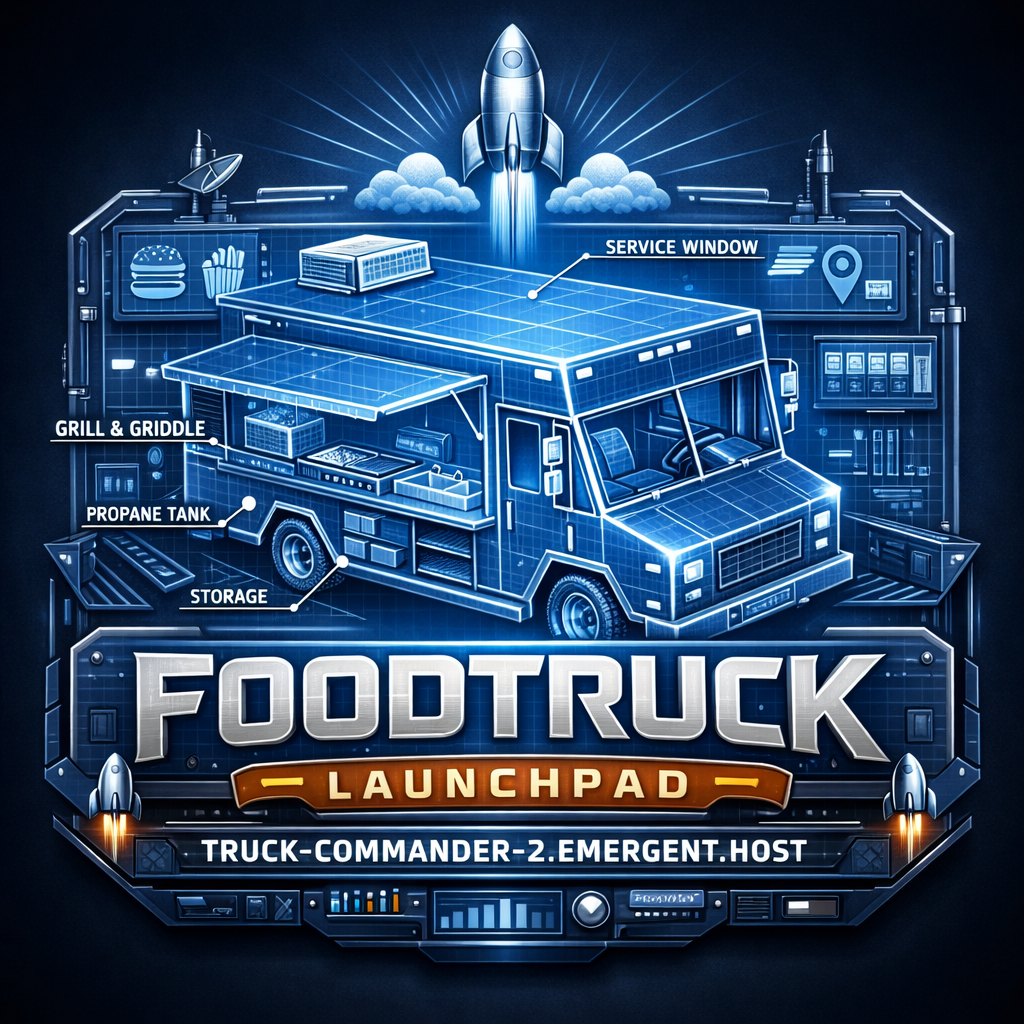
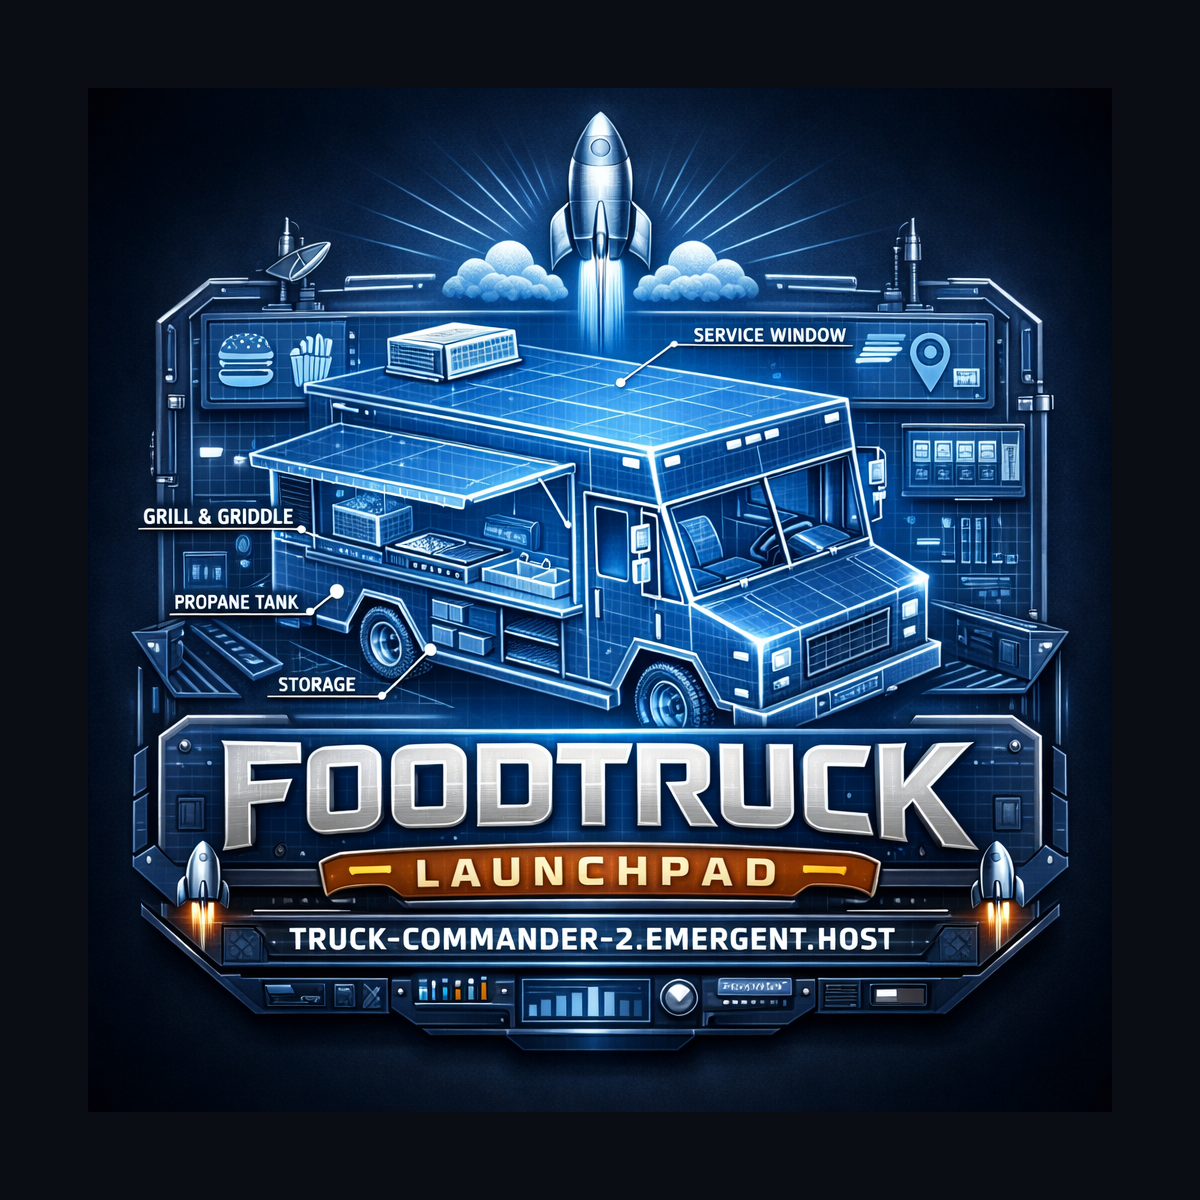
auto-commit for 87b79618-2ab8-4d25-8a4d-09f0a36f0be2

diff --git a/frontend/public/index.html b/frontend/public/index.html
@@ -36,9 +36,6 @@
         <meta name="twitter:image" content="https://ftlp-showroom-dev.preview.emergentagent.com/og-image.png" />
         <meta name="twitter:image:alt" content="Food Truck Launch Pad - The ultimate platform for food truck entrepreneurs" />
         
-        <!-- LinkedIn specific -->
-        <meta property="og:image" itemprop="image" content="https://ftlp-showroom-dev.preview.emergentagent.com/og-image.png" />
-        
         <!-- Apple Touch Icon -->
         <link rel="apple-touch-icon" sizes="180x180" href="%PUBLIC_URL%/apple-touch-icon.png" />
         <link rel="icon" type="image/png" sizes="32x32" href="%PUBLIC_URL%/favicon-32x32.png" />